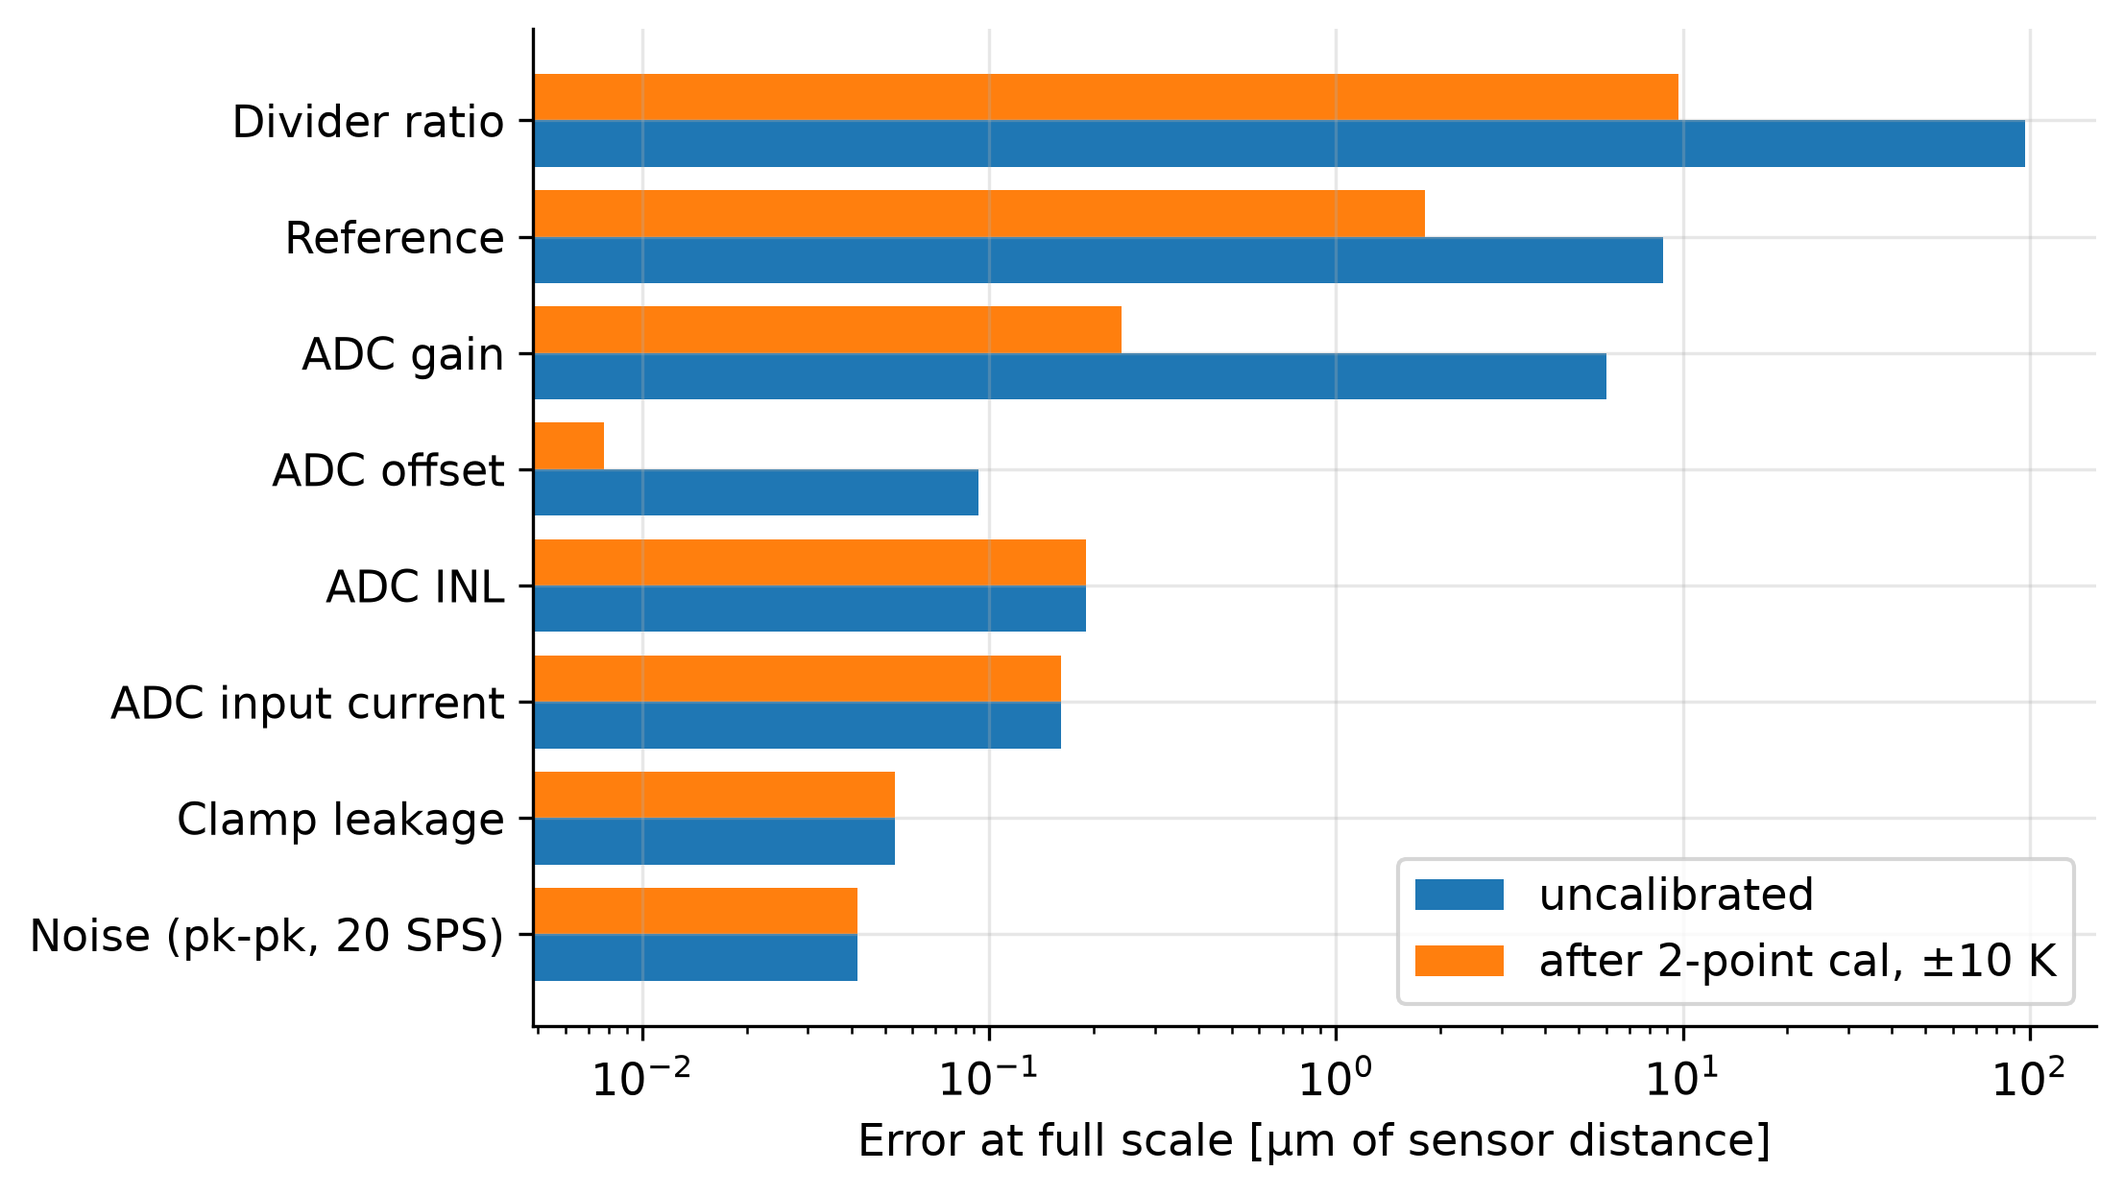
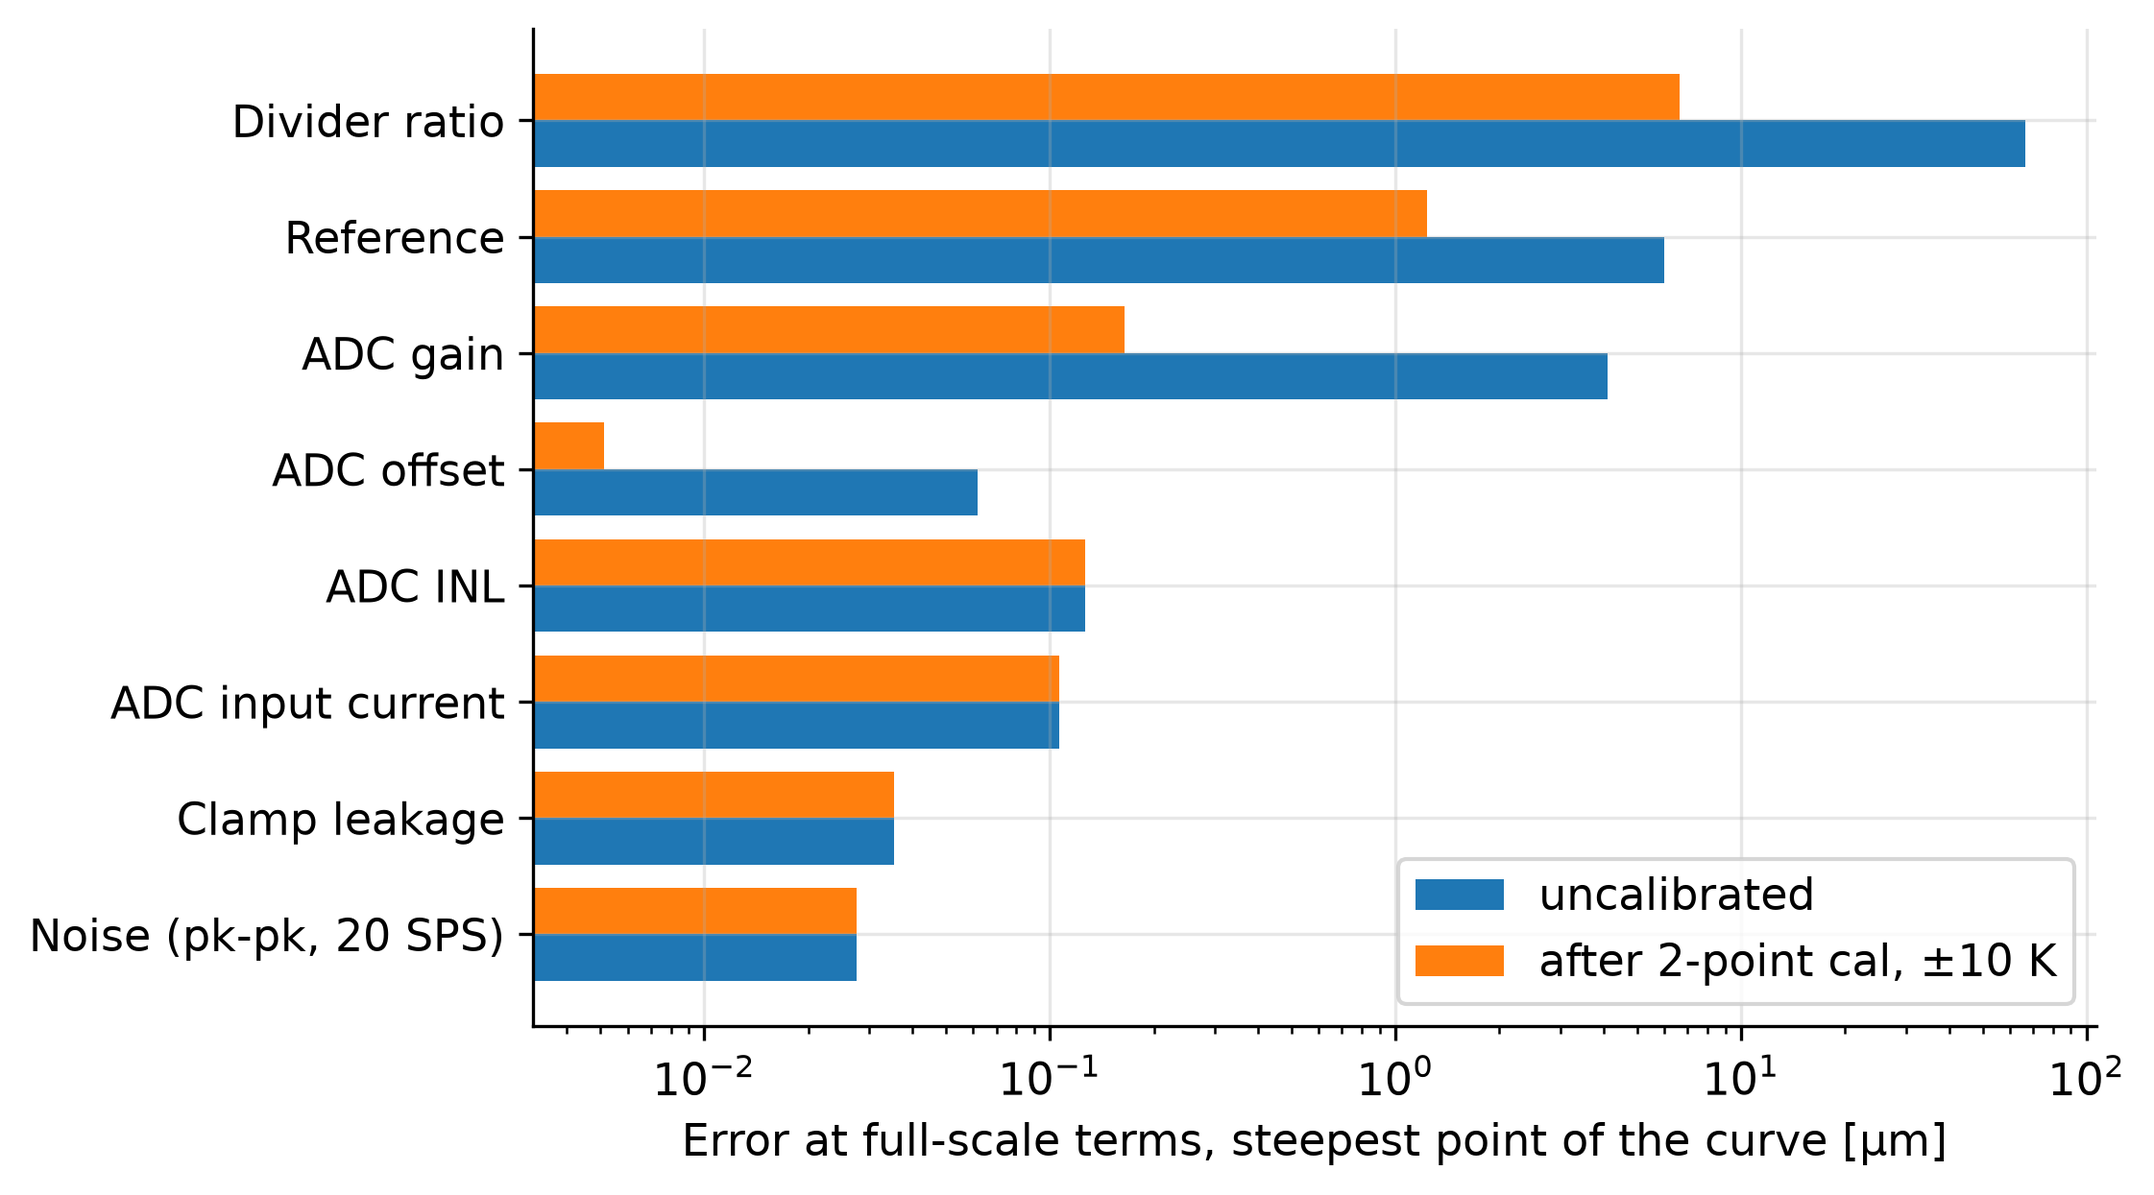
Rework the prox error budget around the sensor curve and the 5 um requirement, with 2 % filter caps.

diff --git a/electrical/01-prox-input-filter/scripts/error_budget.py b/electrical/01-prox-input-filter/scripts/error_budget.py
@@ -1,19 +1,29 @@
-"""Prox channel DC error budget at full scale, converted to sensor distance.
+"""Prox channel DC error budget along the sensor curve, converted to target distance.
 
     python electrical/01-prox-input-filter/scripts/error_budget.py
 
+Error terms are computed in volts at the ADC input. Terms that scale with the signal
+(divider ratio, reference, ADC gain) are evaluated at the sensor voltage for each distance;
+the rest (offset, INL, input current, leakage, noise) are constant. Dividing by the local
+slope of the sensor curve gives the distance error, so accuracy is best where the curve is
+steepest and falls apart where it flattens into saturation.
+
 Two views:
-  uncalibrated   every term at its datasheet/tolerance limit
-  calibrated     after a two-point (offset + gain) calibration at one temperature, the
-                 fixed parts of divider, reference, gain and offset errors are removed;
-                 what is left is drift over `temp_span`, INL, noise and leakage.
-Terms are combined both as a worst-case sum and RSS. ADC settings: normal mode, 20 SPS,
-gain 1, PGA bypassed (required because AINN sits at AVSS).
+  uncalibrated   every term at its tolerance limit
+  calibrated     after a two-point (offset + gain) calibration at one temperature: only
+                 drift over `temp_span`, INL, noise and leakage remain
+Both use a worst-case sum. Two divider options: standard 1 % thick film and 0.1 % precision.
+
+Sensor curve: Steel FE360 (the standard rating target) digitized by eye from the
+DW-AS-509-M12-309 typical curves (inputs/prox_sensor_curve.csv, ~0.1 V reading accuracy),
+scaled from the plot's 5.78 V saturation to the 10.35 V measured on the real sensor.
+ADC settings: normal mode, 20 SPS, gain 1, PGA bypassed (AINN sits at AVSS).
 """
 import sys
 
 import matplotlib.pyplot as plt
 import numpy as np
+from scipy.interpolate import PchipInterpolator
 
 from adam_common import (
     apply_style,
@@ -31,16 +41,23 @@ CRIT = load_specs(P["inputs"] / "criteria.csv")
 PARTS = load_parts()
 
 R_TOP, R_BOT = PARTS["R13"]["value"], PARTS["R14"]["value"]
-TOL_TOP, TOL_BOT = PARTS["R13"]["tol_pct"] / 100, PARTS["R14"]["tol_pct"] / 100
 RS = PARTS["R25"]["value"]
 GAIN = R_BOT / (R_TOP + R_BOT)
 R_TH = R_TOP * R_BOT / (R_TOP + R_BOT)
-V_FS_ADC = CRIT["sensor_span_V"] * GAIN
-V_PER_MM = CRIT["sensor_span_V"] / CRIT["sensor_range_mm"]
+DIVIDER_SENS = 1 - GAIN  # dG/G per unit relative change of either resistor
+OPTIONS = {
+    "1 % thick film": (PARTS["R13"]["tol_pct"] / 100, CRIT["resistor_tcr"]),
+    "0.1 % thin film": (CRIT["resistor_tol_precision"] / 100, CRIT["resistor_tcr_precision"]),
+}
 
 
-def to_mm(v_adc):
-    return v_adc / GAIN / V_PER_MM
+def sensor_curve():
+    """Sensor output [V] and slope [V/mm] as functions of distance [mm], scaled to the real unit."""
+    d, v = np.loadtxt(P["inputs"] / "prox_sensor_curve.csv", delimiter=",", skiprows=1,
+                      unpack=True)
+    scale = CRIT["sensor_span_V"] / CRIT["sensor_sat_datasheet"]
+    curve = PchipInterpolator(d, v * scale)
+    return curve, curve.derivative()
 
 
 def leakage_error(i_leak):
@@ -48,42 +65,75 @@ def leakage_error(i_leak):
     return i_leak * (R_TH + RS) + i_leak * RS
 
 
-def error_terms():
-    """Error terms in volts at the ADC input: (name, uncalibrated, after calibration)."""
+def error_terms(tol, tcr):
+    """(name, kind, uncalibrated, calibrated) in volts at the ADC at full scale.
+
+    kind "prop" terms scale with the signal; "const" terms do not.
+    """
     dT = CRIT["temp_span"]
-    divider_sens = 1 - GAIN  # dG/G per unit change in either resistor
+    v_fs = CRIT["sensor_span_V"] * GAIN
     inl = ADS["inl"] * 2 * ADS["vref"]
     return [
-        ("Divider ratio", divider_sens * (TOL_TOP + TOL_BOT) * V_FS_ADC,
-         divider_sens * 2 * CRIT["resistor_tcr"] * dT * V_FS_ADC),
-        ("Reference", ADS["vref_tol"] * V_FS_ADC, ADS["vref_drift"] * dT * V_FS_ADC),
-        ("ADC gain", ADS["gain_err"] * V_FS_ADC, ADS["gain_drift"] * dT * V_FS_ADC),
-        ("ADC offset", ADS["offset"], ADS["offset_drift"] * dT),
-        ("ADC INL", inl, inl),
-        ("ADC input current", leakage_error(ADS["i_abs"]), leakage_error(ADS["i_abs"])),
-        ("Clamp leakage", leakage_error(CRIT["clamp_leak"]), leakage_error(CRIT["clamp_leak"])),
-        ("Noise (pk-pk, 20 SPS)", ADS["noise_pp"], ADS["noise_pp"]),
+        ("Divider ratio", "prop", DIVIDER_SENS * 2 * tol * v_fs,
+         DIVIDER_SENS * 2 * tcr * dT * v_fs),
+        ("Reference", "prop", ADS["vref_tol"] * v_fs, ADS["vref_drift"] * dT * v_fs),
+        ("ADC gain", "prop", ADS["gain_err"] * v_fs, ADS["gain_drift"] * dT * v_fs),
+        ("ADC offset", "const", ADS["offset"], ADS["offset_drift"] * dT),
+        ("ADC INL", "const", inl, inl),
+        ("ADC input current", "const", leakage_error(ADS["i_abs"]), leakage_error(ADS["i_abs"])),
+        ("Clamp leakage", "const", leakage_error(CRIT["clamp_leak"]),
+         leakage_error(CRIT["clamp_leak"])),
+        ("Noise (pk-pk, 20 SPS)", "const", ADS["noise_pp"], ADS["noise_pp"]),
     ]
 
 
-def max_input_voltage():
+def error_mm(terms, column, v_sensor, slope):
+    """Worst-case distance error [mm] at each point of the curve. column: 2 = uncal, 3 = cal."""
+    frac = v_sensor / CRIT["sensor_span_V"]
+    v_err = sum(t[column] * (frac if t[1] == "prop" else 1) for t in terms)
+    return v_err / GAIN / slope
+
+
+def usable_range(d, err):
+    """First and last distance where the error meets the requirement."""
+    ok = d[err <= CRIT["cal_error_max_mm"]]
+    return (ok.min(), ok.max()) if ok.size else (np.nan, np.nan)
+
+
+def max_input_voltage(tol):
     """Largest V_IN that stays inside the ADC range with worst-case divider and reference."""
-    gain_max = R_BOT * (1 + TOL_BOT) / (R_TOP * (1 - TOL_TOP) + R_BOT * (1 + TOL_BOT))
-    vref_min = ADS["vref"] * (1 - ADS["vref_tol"])
-    return vref_min / gain_max
+    gain_max = R_BOT * (1 + tol) / (R_TOP * (1 - tol) + R_BOT * (1 + tol))
+    return ADS["vref"] * (1 - ADS["vref_tol"]) / gain_max
 
 
-def plot_terms(terms):
+def plot_curve_errors(d, v_sensor, errors):
+    fig, (ax1, ax2) = plt.subplots(2, 1, figsize=(7, 7), sharex=True)
+    ax1.plot(d, v_sensor)
+    ax1.axhspan(CRIT["measured_dip_V"], CRIT["sensor_span_V"], alpha=0.15,
+                label="measured sweep range")
+    ax1.legend(fontsize=9)
+    ax1.set_ylabel("Sensor output [V]\n(FE360, scaled to measured)")
+    for label, err in errors.items():
+        ax2.semilogy(d, err * 1e3, label=label)
+    ax2.axhline(CRIT["cal_error_max_mm"] * 1e3, ls="--", c="r", lw=0.8, label="5 µm requirement")
+    ax2.set_ylim(0.5, 500)
+    ax2.set_xlabel("Target distance [mm]")
+    ax2.set_ylabel("Worst-case error [µm]")
+    ax2.legend(fontsize=9)
+    save_figure(fig, P["figures"] / "prox_error_vs_distance")
+
+
+def plot_terms(terms, slope_max):
     names = [t[0] for t in terms]
-    uncal = np.array([to_mm(t[1]) for t in terms]) * 1e3
-    cal = np.array([to_mm(t[2]) for t in terms]) * 1e3
+    to_um = 1e3 / GAIN / slope_max
     y = np.arange(len(names))
     fig, ax = plt.subplots()
-    ax.barh(y + 0.2, uncal, height=0.4, label="uncalibrated")
-    ax.barh(y - 0.2, cal, height=0.4, label=f"after 2-point cal, ±{CRIT['temp_span']:.0f} K")
+    ax.barh(y + 0.2, [t[2] * to_um for t in terms], height=0.4, label="uncalibrated")
+    ax.barh(y - 0.2, [t[3] * to_um for t in terms], height=0.4,
+            label=f"after 2-point cal, ±{CRIT['temp_span']:.0f} K")
     ax.set_yticks(y, names)
     ax.set_xscale("log")
-    ax.set_xlabel("Error at full scale [µm of sensor distance]")
+    ax.set_xlabel("Error at full-scale terms, steepest point of the curve [µm]")
     ax.invert_yaxis()
     ax.legend()
     save_figure(fig, P["figures"] / "prox_error_budget")
@@ -91,21 +141,40 @@ def plot_terms(terms):
 
 def main():
     apply_style()
-    terms = error_terms()
-    plot_terms(terms)
+    curve, slope_fn = sensor_curve()
+    d = np.linspace(0.05, 6.0, 600)
+    v_sensor, slope = curve(d), slope_fn(d)
+    i_steep = int(np.argmax(slope))
+    i_dip = int(np.argmin(np.abs(v_sensor - CRIT["measured_dip_V"])))
 
-    uncal = np.array([t[1] for t in terms])
-    cal = np.array([t[2] for t in terms])
-    rows = [check(f"{name}, uncalibrated", to_mm(u) * 1e3, "um") for name, u, _ in terms]
-    rows += [check(f"{name}, after cal", to_mm(c) * 1e3, "um") for name, _, c in terms]
-    rows += [
-        check("Total uncalibrated, worst case", to_mm(uncal.sum()) * 1e3, "um"),
-        check("Total uncalibrated, RSS", to_mm(np.sqrt((uncal**2).sum())) * 1e3, "um"),
-        check("Total after cal, worst case", to_mm(cal.sum()) * 1e3, "um",
-              max=CRIT["cal_error_max_mm"] * 1e3),
-        check("Total after cal, RSS", to_mm(np.sqrt((cal**2).sum())) * 1e3, "um"),
-        check("Max V_IN inside ADC range (worst case)", max_input_voltage(), "V",
-              min=CRIT["sensor_span_V"]),
+    errors, rows = {}, []
+    for label, (tol, tcr) in OPTIONS.items():
+        terms = error_terms(tol, tcr)
+        cal = error_mm(terms, 3, v_sensor, slope)
+        errors[f"after cal, {label}"] = cal
+        lo, hi = usable_range(d, cal)
+        rows += [
+            check(f"Uncal error at steepest point, {label}",
+                  error_mm(terms, 2, v_sensor, slope)[i_steep] * 1e3, "um"),
+            check(f"Cal error at steepest point, {label}", cal[i_steep] * 1e3, "um",
+                  max=CRIT["cal_error_max_mm"] * 1e3),
+            check(f"Cal error at measured dip ({CRIT['measured_dip_V']:g} V), {label}",
+                  cal[i_dip] * 1e3, "um", max=CRIT["cal_error_max_mm"] * 1e3),
+            check(f"Distance range meeting 5 um, {label}: from", lo, "mm"),
+            check(f"Distance range meeting 5 um, {label}: to", hi, "mm"),
+            check(f"Max V_IN inside ADC range, {label}", max_input_voltage(tol), "V",
+                  min=CRIT["sensor_span_V"]),
+        ]
+        if label.startswith("1 %"):
+            plot_terms(terms, slope[i_steep])
+    plot_curve_errors(d, v_sensor, errors)
+
+    rows = [
+        check("Steepest sensor slope (scaled FE360 curve)", slope[i_steep], "V/mm"),
+        check("Distance at steepest slope", d[i_steep], "mm"),
+        check("Distance at measured dip (scaled curve)", d[i_dip], "mm"),
+        check("Slope at measured dip", slope[i_dip], "V/mm"),
+        *rows,
     ]
     if not write_summary(rows, P["results"] / "summary_error_budget.csv"):
         sys.exit(1)

diff --git a/electrical/01-prox-input-filter/README.md b/electrical/01-prox-input-filter/README.md
@@ -17,8 +17,10 @@ Check the inductive-proximity sensor channel on the ADAM Calibration Board V2 (s
    50/60 Hz notch gets credit, and at 400 kHz, the buck frequency, where the analog filter
    gets no help.
 3. **Settling (sim 2):** time to settle after a 0 → 10 V sensor step (informational).
-4. **DC error budget (analysis 11):** full-scale error in µm of sensor distance, before and
-   after a two-point calibration, plus ADC input-range headroom.
+4. **DC error budget (analysis 11):** error in µm of target distance along the sensor's
+   output curve, before and after a two-point calibration. The requirement is
+   **≤ 5 µm after calibration**. Also checks that the sensor's measured 10.35 V saturation
+   fits in the ADC range.
 
 ## Setup
 - Model files:
@@ -29,10 +31,14 @@ Check the inductive-proximity sensor channel on the ADAM Calibration Board V2 (s
     differentially and one by a ground offset.
   - [`model/step.cir`](model/step.cir): 0 → 10 V step.
 - Monte Carlo: 500 runs, each part uniform within its tolerance. That is ±1 % for the
-  divider, ±0.1 % for Rs, ±2 % for Ccm (C0G) and ±10 % for Cdiff (assumed).
+  divider, ±0.1 % for Rs (precision), and ±2 % for Ccm and Cdiff (precision caps).
 - ADC settings for the noise and error terms: normal mode, 20 SPS, gain 1, **PGA bypassed**.
   The bypass is required because AINN sits at AVSS (V_SENSE− is GND). Datasheet values with
   table and page references are in [`inputs/ads1220.csv`](inputs/ads1220.csv).
+- Sensor curve: [`inputs/prox_sensor_curve.csv`](inputs/prox_sensor_curve.csv) is the Steel
+  FE360 curve, digitized by eye (±0.1 V) from the DW-AS-509-M12-309 typical curves. FE360 is
+  the standard rating target. The curve is scaled by 10.35/5.78: the plot saturates at 5.78 V,
+  and the real sensor measured 10.35 V.
 - Criteria and assumptions: [`inputs/criteria.csv`](inputs/criteria.csv).
 
 ## Assumptions
@@ -41,12 +47,14 @@ Check the inductive-proximity sensor channel on the ADAM Calibration Board V2 (s
   axis limits of datasheet Fig 6-21 to 6-24) and the BAV199 leakage (5 nA) only enter the
   error budget. The clamp diodes' ~2 pF is negligible next to 10 nF.
 - The noise tables were measured at AVDD = 3.3 V. This board runs the prox ADC at 5 V.
-- The sensor is linear at 10 V over 6 mm (1.67 V/mm). That is the schematic's nominal range;
-  the slope is not from a datasheet.
-- The divider resistors are 1 % thick film at 100 ppm/K, with no tracking. The lab temperature
-  changes by ±10 K between calibration and use.
-- **The 5 µm post-calibration limit is provisional.** Replace it with the ADAM accuracy
-  requirement.
+- **The real sensor's curve has the same shape as the datasheet's FE360 curve, scaled to its
+  measured 10.35 V saturation.** The sweep data (device-monitor-261115-185349) shows the scale
+  but not the distance axis, because steps/mm is not in hand. The closest point in the sweep,
+  6.7 V, maps to about 3.9 mm on the scaled curve. A different target material changes the
+  slope a lot; copper and aluminium saturate by 2.2 mm.
+- Divider resistors are either the standard 1 % thick film at 100 ppm/K, or the 0.1 %
+  precision option at 25 ppm/K (typical thin film, assumed). Neither assumes tracking. The lab
+  temperature changes by ±10 K between calibration and use.
 
 ## How to reproduce
 From the repo root with the venv active and ngspice installed (see the top-level README):
@@ -64,9 +72,9 @@ Each exits non-zero if any criterion fails.
 
 | Criterion | Result | Limit | |
 |---|---|---|---|
-| DM −3 dB corner (nominal / MC range) | 435 Hz / 397–480 Hz | n/a | info |
-| Attenuation at 256 kHz, MC worst | 57.4 dB | ≥ 50 dB | **PASS** |
-| CM-to-DM at 400 kHz, nominal / MC worst | −59.0 / −57.8 dB | ≤ −68.2 dB | **FAIL** |
+| DM −3 dB corner (nominal / MC range) | 435 Hz / 426–445 Hz | n/a | info |
+| Attenuation at 256 kHz, MC worst | 58.0 dB | ≥ 50 dB | **PASS** |
+| CM-to-DM at 400 kHz, nominal / MC worst | −59.0 / −58.5 dB | ≤ −68.2 dB | **FAIL** |
 | CM-to-DM at 60 Hz, analog only / with 20 SPS notch | −44.9 / −134.9 dB | ≤ −68.2 dB | **PASS** |
 | Settling to 0.1 % / 16 bit | 2.53 / 4.06 ms | n/a | info |
 
@@ -89,26 +97,42 @@ that rejection could be credited from, though. Conversion also peaks near −28 
 
 ![](results/figures/prox_filter_step.png)
 
+![](results/figures/prox_error_vs_distance.png)
+
+| Error budget, worst-case sum | 1 % thick film | 0.1 % thin film | Limit |
+|---|---|---|---|
+| Uncalibrated, steepest point (1.8 mm, 2.5 V/mm) | 16.1 µm | 3.8 µm | info |
+| After calibration, steepest point | 1.95 µm **PASS** | 0.93 µm **PASS** | ≤ 5 µm |
+| After calibration, measured dip (6.7 V, ~3.9 mm, 1.9 V/mm) | **7.4 µm FAIL** | 3.1 µm **PASS** | ≤ 5 µm |
+| Distance range meeting 5 µm after calibration | 0–3.4 mm | 0–4.7 mm | info |
+| Max V_IN inside ADC range (worst-case divider and reference) | 10.40 V **PASS** | 10.55 V **PASS** | ≥ 10.35 V |
+
 ![](results/figures/prox_error_budget.png)
 
-| Error at full scale (10 V, 6 mm) | Worst case | RSS | Limit | |
-|---|---|---|---|---|
-| Uncalibrated | 112 µm | 97 µm | n/a | info |
-| After two-point calibration, ±10 K | 12.2 µm | 9.9 µm | ≤ 5 µm (provisional) | **FAIL** |
-| Max V_IN inside ADC range (worst-case divider and reference) | 10.4 V | | ≥ 10 V | **PASS** |
+The sensor curve makes the budget depend on distance. Error is smallest where the curve is
+steepest, and grows quickly as it flattens toward saturation. After calibration, the divider's
+untracked resistor drift is the largest term. The ADC's own terms stay under about 1 µm at the
+steepest point, led by reference drift.
 
-Divider tolerance dominates before calibration (97 µm). After calibration the divider still
-dominates, through untracked resistor drift (9.7 µm). The ADC's own terms are all below
-2 µm, led by reference drift. With 25 ppm/K thin-film resistors for R13–R16, the divider term
-drops to about 2.4 µm and the calibrated total to about 4.9 µm. The sensor's own temperature
-drift is likely larger than any of these.
+**Headroom is tight with 1 % resistors.** The measured 10.35 V saturation is only 0.5 % below
+the worst-case ADC clipping point of 10.40 V. A unit that saturates a little higher, or runs
+warm, could clip. With 0.1 % resistors the clipping point is 10.55 V.
 
 ## Conclusions
 - Anti-aliasing passes with 7 dB of margin across tolerances.
 - CM rejection at the buck frequency fails the analog-only criterion by about 10 dB, because the
   source impedance is unbalanced. **Recommended fix:** set R26 and R28 to 2.43 kΩ, and confirm
   on hardware by measuring with the buck running.
-- After calibration, the error is set by divider drift. Use 0.1 % / 25 ppm/K thin-film parts
-  for R13–R16 if the ADAM requirement is tighter than about 10 µm.
-- Next steps: replace the provisional 5 µm limit with the real requirement, and get the sensor's
-  actual V/mm slope from its datasheet.
+- **5 µm is met at 0–3.4 mm with 1 % divider resistors, or 0–4.7 mm with 0.1 % thin film.**
+  The recorded sweep's closest point (~3.9 mm) falls outside the 1 % range. Use 0.1 %,
+  ≤ 25 ppm/K resistors for R13–R16. That also fixes the 0.5 % ADC headroom at the sensor's
+  10.35 V saturation.
+- Run measurements as close to the target as the setup allows (the steepest part of the
+  curve, near 1.5–2 mm), and keep away from saturation.
+- Next steps:
+  - Get steps/mm for the sweep rig, so the measured flank (about 27.6 mV/step) can replace
+    the scaled datasheet curve.
+  - Confirm the target material.
+  - The repeatability plot shows the fitted minimum shifting about 5 steps over sweeps 3–5,
+    and the ADS1220 and the STM32 ADC agree on the shift. So the shift comes from the sensor
+    or the mechanics, not the ADC channel.
